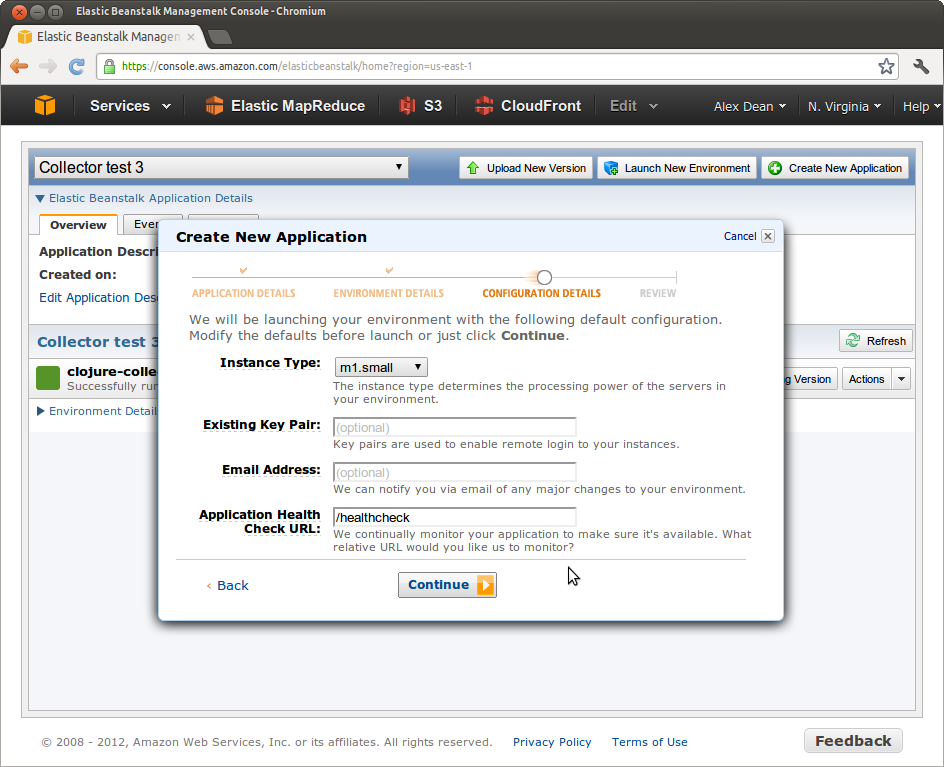
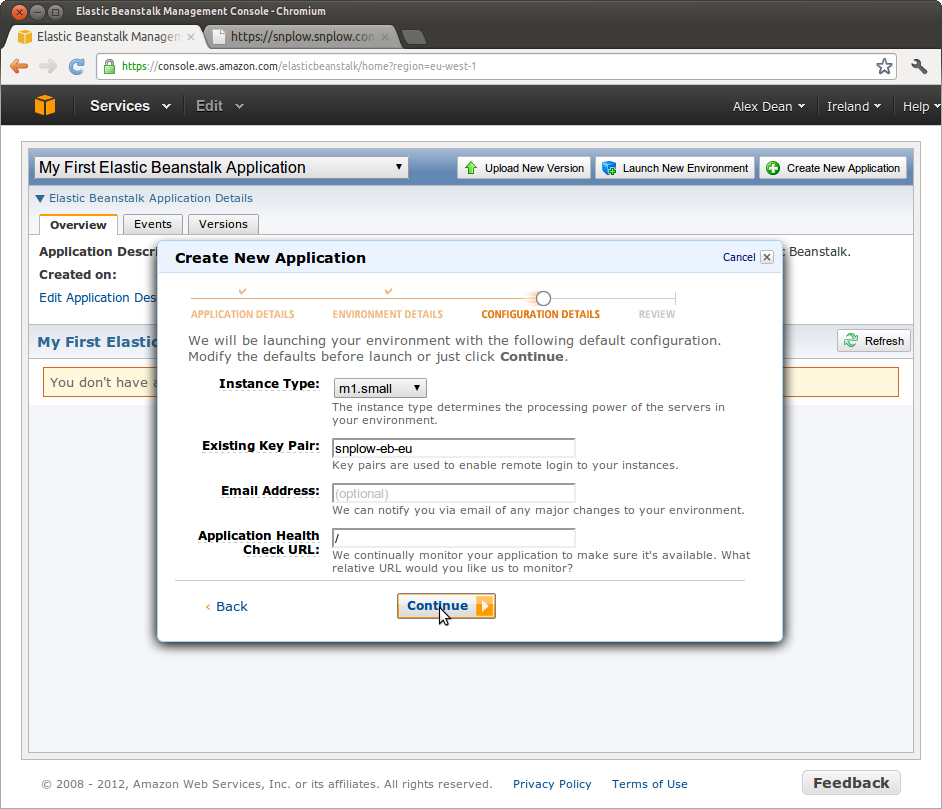
completing the clojure collector setup guide...

diff --git a/setup-guide/2-collectors/clojure-collector/Setting-up-the-Clojure-collector.md b/setup-guide/2-collectors/clojure-collector/Setting-up-the-Clojure-collector.md
@@ -15,7 +15,7 @@ Setting up the Clojure collector is a X step process:
 
 1. [Download the Clojoure collector WAR file, or compile it from source](#war-file). (Required)
 2. [Create a new application in Elastic Beanstalk, and upload the WAR file into it] (#create-eb-app). (Required)
-3. [Configure the application environment, including switching on logging to S3] (#env-config). (Required)
+3. [Enable logging to S3] (#enable-logging). (Required)
 4. Enable support for HTTPS. (Optional, but recommended.)
 5. Set your tracker to point at the Clojure collector end point. (Required)
 6. Update the EmrEtlRunner configuration YAML file
@@ -88,7 +88,7 @@ Give your environment a suitable name, URL and description:
 
 Next we need to specify another set of configuration details. Set a suitable instance type (we recommend at least `m1.small`). If you have an EC2 key pair configured, you can enter the key pair name at this stage: this will enable you to use the key pair to SSH in should you wish. (This is not required, and can be added later without any difficulty.)
 
-For the **Application Health Check URL** enter `/healthcheck`:
+For the **Application Health Check URL** enter a single slash i.e. `/`:
 
 [[/setup-guide/images/clojure-collector-setup-guide/4.png]]
 
@@ -108,11 +108,9 @@ Click on the **URL** link. (This is [[http://cc-endpoint.elasticbeanstalk.com]] 
 
 <a name="env-config"></a>
 
-## 3. Configure your application environment
+## 3. Enable logging to S3
 
-### 3a. Required change: enabling log file rotation to S3
-
-Now that your application is up and running, you need to update the configuration so that the Tomcat logs are pushed to S3. (These will be processed by the [etl][etl] step to generate your SnowPlow data.)Click on the **Actions button** and select **Edit/Load configuration**.
+Now that your application is up and running, you need to update the configuration so that the Tomcat logs are pushed to S3. (These will be processed by the [etl][etl] step to generate your SnowPlow data.) Click on the **Actions** dropdown and select **Edit/Load configuration**.
 
 [[/setup-guide/images/clojure-collector-setup-guide/6.png]]
 
@@ -122,7 +120,33 @@ Select the **Container** tab in the dialogue box, and then check the box marked 
 
 Click the **Apply changes** button. The environment update will be processed, and the collector app should be live again after a few minutes.
 
-### 3b. Additional (optional) configuration options
+<a name="https"></a>
+
+## 4. Enable support for HTTPS
+
+Text here
+
+<a name="tracker" ></a>
+
+
+
+
+
+
+
+
+
+
+
+
+
+
+
+
+
+
+
+## Configuring the collector
 
 There are a number of other environment configuration parameters that you may want to consider tailoring to your specific needs. All of them can be accessed via the **Edit Configuration** dialogue box.
 
@@ -166,13 +190,7 @@ Basic settings (minimum and maximum numbers of servers) can be set in the config
 
 You can tell Amazon in what circumstances to launch new instances by setting 'triggers'. More details on tuning Elastic Beanstalk can be found [here](http://docs.amazonwebservices.com/elasticbeanstalk/latest/dg/using-features.managing.as.html).
 
-<a name="https"></a>
 
-## 4. Enable support for HTTPS
-
-Text here
-
-<a name="tracker" ></a>
 
 ## 5. Set your Tracker to point at the Clojure collector end point
 
